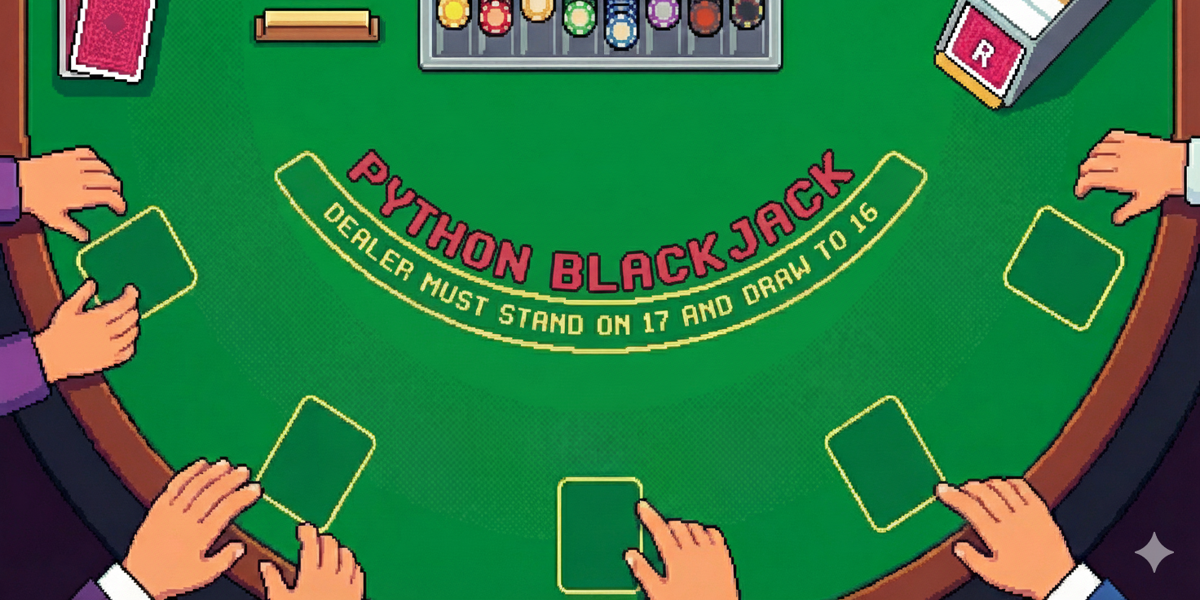
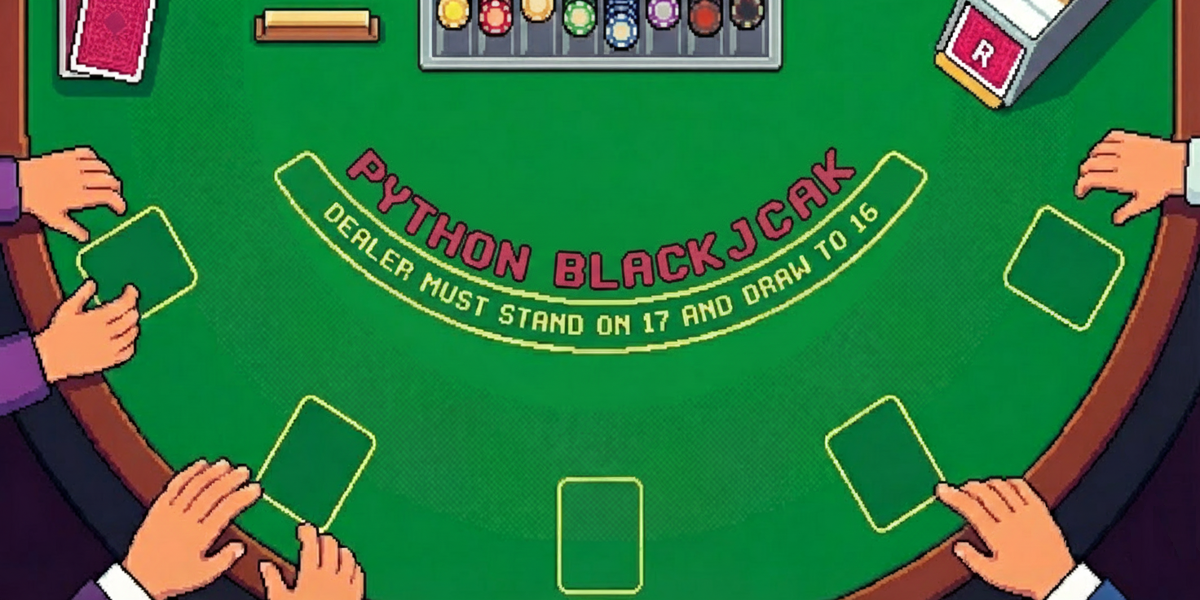
alteração no background

diff --git a/blackjack.py b/blackjack.py
@@ -80,7 +80,6 @@ txt_jog = gf.Text(gf.Point(545, 450), pontos_jog)
 txt_jog.setSize(20)
 txt_jog.setFill("white")
 txt_jog.setStyle("bold")
-txt_jog.setFace("arial")
 txt_jog.draw(win)
 
 #mostrar carta revelada do dealer
@@ -90,21 +89,18 @@ if valor_d1 in ["J","Q","K"]:
   txt_deal.setSize(20)
   txt_deal.setFill("white")
   txt_deal.setStyle("bold")
-  txt_deal.setFace("arial")
   txt_deal.draw(win)
 elif valor_d1 == "A":
   txt_deal = gf.Text(gf.Point(455, 100), 11)
   txt_deal.setSize(20)
   txt_deal.setFill("white")
   txt_deal.setStyle("bold")
-  txt_deal.setFace("arial")
   txt_deal.draw(win)
 else:
   txt_deal = gf.Text(gf.Point(455, 100), valor_d1)
   txt_deal.setSize(20)
   txt_deal.setFill("white")
   txt_deal.setStyle("bold")
-  txt_deal.setFace("arial")
   txt_deal.draw(win)
 
 #LOOP DO JOGADOR
